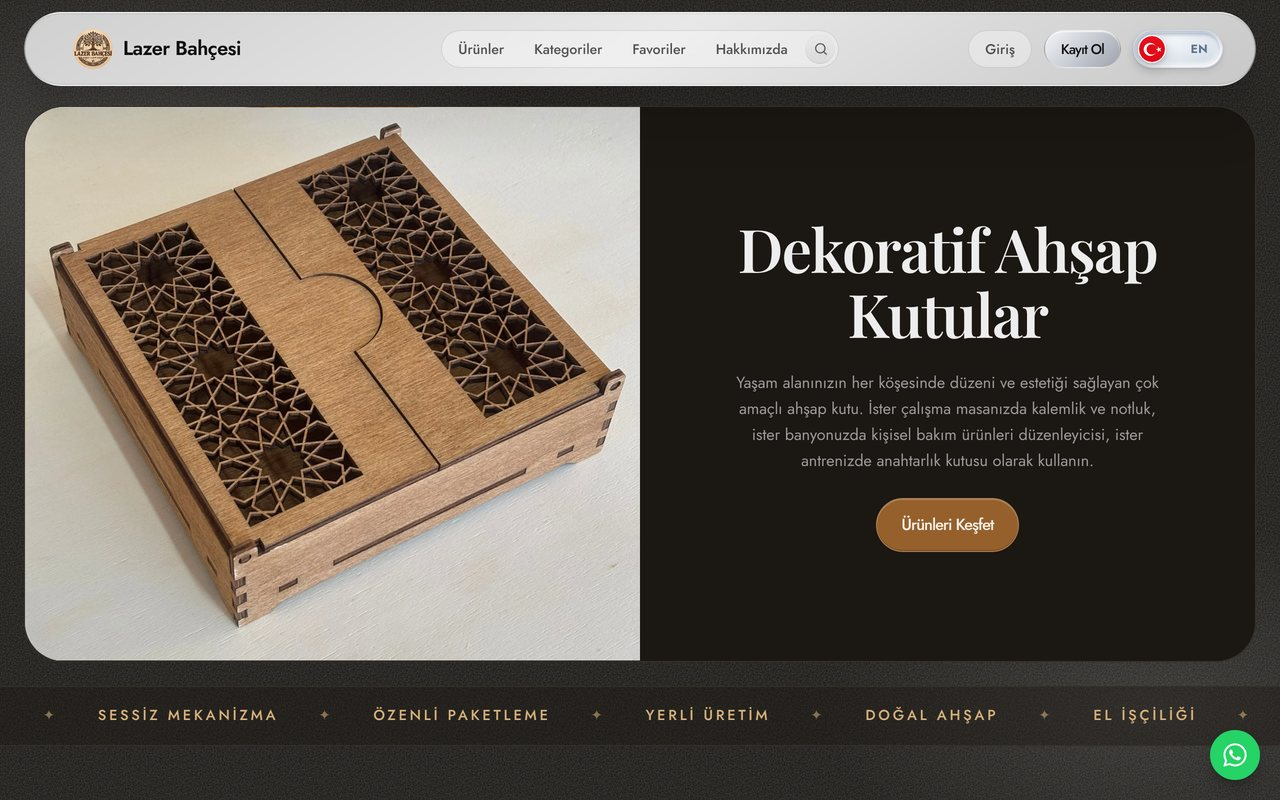
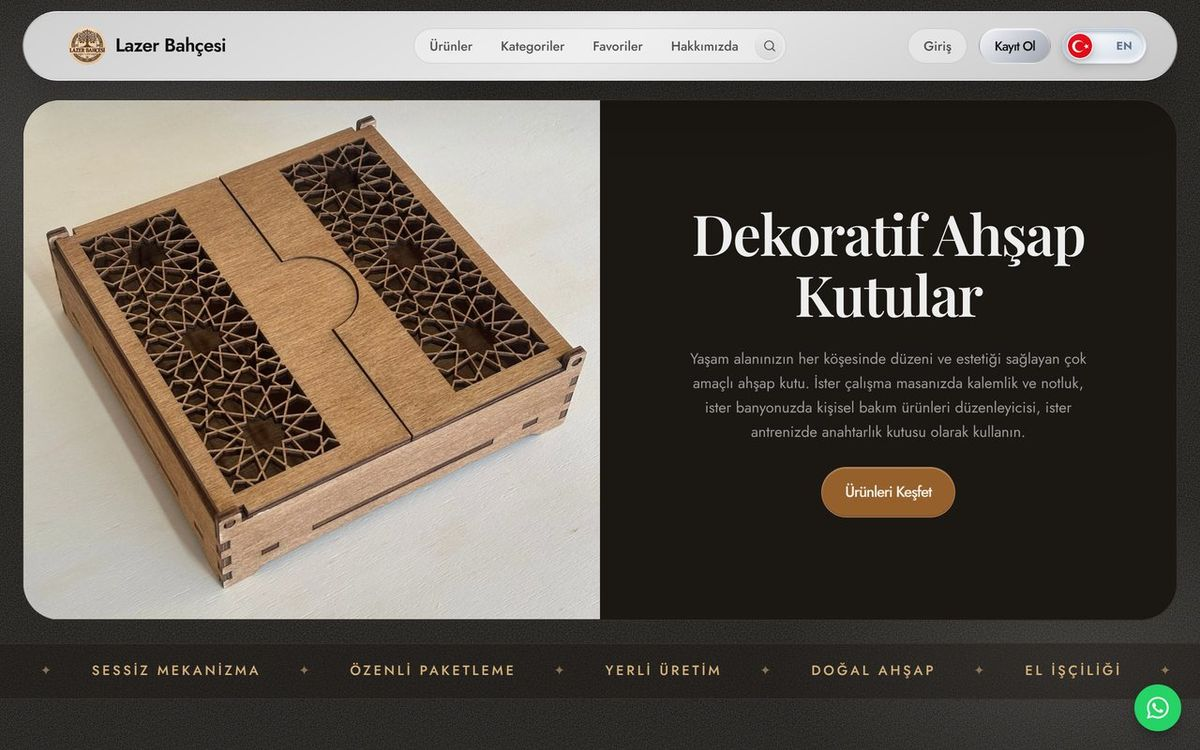
Animasyonlar daha hızlı, içerik daha erken beliriyor; görseller sıkıştırıldı
Claude-Session: https://claude.ai/code/session_015cD98G2LMLwpiJcFaBPEqb

diff --git a/css/style.css b/css/style.css
@@ -315,7 +315,7 @@ body::before {
 }
 .tube__theme:hover { color: #fafafa; transform: scale(1.06); }
 .tube__theme:focus-visible { outline: 2px solid #fafafa; outline-offset: 2px; }
-.tube__theme svg { transition: transform .5s cubic-bezier(.2, .7, .2, 1); }
+.tube__theme svg { transition: transform .35s cubic-bezier(.2, .7, .2, 1); }
 .tube__theme:hover svg { transform: rotate(20deg); }
 
 @media (max-width: 767px) {
@@ -852,7 +852,7 @@ body::before {
   background: var(--surface);
   border: 1px solid var(--line);
   border-radius: var(--card-r);
-  transition: transform .5s cubic-bezier(.2, .7, .2, 1), border-color .3s;
+  transition: transform .35s cubic-bezier(.2, .7, .2, 1), border-color .25s;
 }
 .project:hover { transform: translateY(-4px); }
 
@@ -1171,7 +1171,7 @@ body::before {
   background:
     radial-gradient(110% 55% at 0% 0%, color-mix(in srgb, var(--stage-color) 13%, transparent), transparent 62%),
     var(--surface);
-  transition: transform .5s cubic-bezier(.2, .7, .2, 1);
+  transition: transform .35s cubic-bezier(.2, .7, .2, 1);
 }
 .stage:hover { transform: translateY(-4px); }
 .stage--rooted { --stage-color: var(--laser-pink); }
@@ -1596,31 +1596,31 @@ body::before {
   .js .hero__actions,
   .js .hero__soil { opacity: 0; }
 
-  .js.is-ready .status { animation: rise .8s cubic-bezier(.2, .7, .2, 1) both; }
+  .js.is-ready .status { animation: rise .48s cubic-bezier(.2, .7, .2, 1) both; }
   .js.is-ready .hero__name > span {
-    animation: unveil 1s cubic-bezier(.2, .7, .1, 1) both;
-    animation-delay: calc(.12s + var(--i, 0) * .12s);
+    animation: unveil .6s cubic-bezier(.2, .7, .1, 1) both;
+    animation-delay: calc(.07s + var(--i, 0) * .07s);
   }
   .js.is-ready .hero__name > .hero__surname {
     animation:
-      unveil 1s cubic-bezier(.2, .7, .1, 1) calc(.12s + var(--i, 0) * .12s) both,
+      unveil .6s cubic-bezier(.2, .7, .1, 1) calc(.07s + var(--i, 0) * .07s) both,
       laser-scan 9s ease-in-out 1.4s infinite;
   }
-  .js.is-ready .hero__lede { animation: rise .9s cubic-bezier(.2, .7, .2, 1) .55s both; }
-  .js.is-ready .hero__actions { animation: rise .9s cubic-bezier(.2, .7, .2, 1) .7s both; }
-  .js.is-ready .hero__soil { animation: fade 1.2s ease .9s both; }
+  .js.is-ready .hero__lede { animation: rise .54s cubic-bezier(.2, .7, .2, 1) .33s both; }
+  .js.is-ready .hero__actions { animation: rise .54s cubic-bezier(.2, .7, .2, 1) .42s both; }
+  .js.is-ready .hero__soil { animation: fade .72s ease .54s both; }
 
   .js .spot__line,
   .js .spot__lede,
   .js .spot__cta,
   .js .spot__band { opacity: 0; }
   .js.is-ready .spot__line {
-    animation: blur-rise 1.1s cubic-bezier(.2, .7, .1, 1) both;
-    animation-delay: calc(.1s + var(--i, 0) * .16s);
+    animation: blur-rise .66s cubic-bezier(.2, .7, .1, 1) both;
+    animation-delay: calc(.06s + var(--i, 0) * .1s);
   }
-  .js.is-ready .spot__lede { animation: rise .9s cubic-bezier(.2, .7, .2, 1) .45s both; }
-  .js.is-ready .spot__cta { animation: rise .9s cubic-bezier(.2, .7, .2, 1) .6s both; }
-  .js.is-ready .spot__band { animation: fade 1.4s ease .85s both; }
+  .js.is-ready .spot__lede { animation: rise .54s cubic-bezier(.2, .7, .2, 1) .27s both; }
+  .js.is-ready .spot__cta { animation: rise .54s cubic-bezier(.2, .7, .2, 1) .36s both; }
+  .js.is-ready .spot__band { animation: fade .84s ease .51s both; }
 
   /* Soyadındaki içi boş harflerden periyodik geçen lazer ışığı */
   .hero__surname {
@@ -1646,7 +1646,7 @@ body::before {
     pointer-events: none;
     background: radial-gradient(380px circle at var(--mx, 50%) var(--my, 50%), rgba(255, 79, 154, .10), rgba(59, 240, 216, .04) 40%, transparent 70%);
     opacity: 0;
-    transition: opacity .5s;
+    transition: opacity .3s;
   }
   .hero__window.is-pointer::after { opacity: 1; }
 
@@ -1659,7 +1659,7 @@ body::before {
     pointer-events: none;
     background: radial-gradient(420px circle at var(--mx, 50%) var(--my, 50%), rgba(255, 255, 255, .06), transparent 70%);
     opacity: 0;
-    transition: opacity .5s;
+    transition: opacity .3s;
   }
   :root[data-theme="light"] .cursor-glow {
     background: radial-gradient(420px circle at var(--mx, 50%) var(--my, 50%), rgba(124, 92, 255, .12), transparent 70%);
@@ -1669,29 +1669,29 @@ body::before {
   /* Kaydırınca beliren öğeler */
   .reveal-on [data-reveal] { opacity: 0; }
   .reveal-on [data-reveal].is-visible {
-    animation: rise .9s cubic-bezier(.2, .7, .2, 1) both;
-    animation-delay: calc(var(--i, 0) * 120ms);
+    animation: rise .54s cubic-bezier(.2, .7, .2, 1) both;
+    animation-delay: calc(var(--i, 0) * 72ms);
   }
 
   /* Projeler: görsel perde gibi açılır, yazı ardından gelir */
   .reveal-on [data-reveal-project] .project__media,
   .reveal-on [data-reveal-project] .project__body { opacity: 0; }
   .reveal-on [data-reveal-project].is-visible .project__media {
-    animation: wipe-up 1.1s cubic-bezier(.7, 0, .2, 1) calc(var(--i, 0) * 140ms) both;
+    animation: wipe-up .66s cubic-bezier(.7, 0, .2, 1) calc(var(--i, 0) * 84ms) both;
   }
   .reveal-on [data-reveal-project].is-visible .project__body {
-    animation: rise .9s cubic-bezier(.2, .7, .2, 1) calc(var(--i, 0) * 140ms + .35s) both;
+    animation: rise .54s cubic-bezier(.2, .7, .2, 1) calc(var(--i, 0) * 84ms + .21s) both;
   }
 
   /* Yetenekler: bitki çizimleri kendini çizer, tomurcuklar açılır */
   .reveal-on .stage__icon path { stroke-dasharray: 1; stroke-dashoffset: 1; }
   .reveal-on .stage__icon circle { transform: scale(0); transform-box: fill-box; transform-origin: center; }
   .reveal-on .stage.is-visible .stage__icon path {
-    transition: stroke-dashoffset 1.3s cubic-bezier(.6, 0, .2, 1) calc(var(--i, 0) * 150ms + .25s);
+    transition: stroke-dashoffset .78s cubic-bezier(.6, 0, .2, 1) calc(var(--i, 0) * 90ms + .15s);
     stroke-dashoffset: 0;
   }
   .reveal-on .stage.is-visible .stage__icon circle {
-    transition: transform .5s cubic-bezier(.3, 1.6, .5, 1) calc(var(--i, 0) * 150ms + 1.15s);
+    transition: transform .3s cubic-bezier(.3, 1.6, .5, 1) calc(var(--i, 0) * 90ms + .69s);
     transform: scale(1);
   }
   .reveal-on .stage .skill-list li,
@@ -1701,12 +1701,12 @@ body::before {
   .reveal-on .stage.is-visible .stage__meter,
   .reveal-on .stage.is-visible h3,
   .reveal-on .stage.is-visible .stage__desc {
-    animation: rise-sm .7s cubic-bezier(.2, .7, .2, 1) both;
-    animation-delay: calc(var(--i, 0) * 150ms + .15s);
+    animation: rise-sm .42s cubic-bezier(.2, .7, .2, 1) both;
+    animation-delay: calc(var(--i, 0) * 90ms + .09s);
   }
   .reveal-on .stage.is-visible .skill-list li {
-    animation: rise-sm .6s cubic-bezier(.2, .7, .2, 1) both;
-    animation-delay: calc(var(--i, 0) * 150ms + .45s + var(--j, 0) * 70ms);
+    animation: rise-sm .36s cubic-bezier(.2, .7, .2, 1) both;
+    animation-delay: calc(var(--i, 0) * 90ms + .27s + var(--j, 0) * 42ms);
   }
 }
 
@@ -2139,7 +2139,7 @@ body::before {
   border: 1px solid var(--line);
   border-radius: 22px;
   background: var(--surface);
-  transition: transform .5s cubic-bezier(.2, .7, .2, 1), border-color .3s, box-shadow .3s;
+  transition: transform .35s cubic-bezier(.2, .7, .2, 1), border-color .25s, box-shadow .25s;
 }
 .service:hover, .plan:hover { transform: translateY(-4px); }
 .service h3, .plan h3 {

diff --git a/js/main.js b/js/main.js
@@ -291,7 +291,7 @@ function setupIntro() {
   const root = document.documentElement;
   const ready = () => root.classList.add('is-ready');
   const fonts = document.fonts ? document.fonts.ready : Promise.resolve();
-  Promise.race([fonts, new Promise((r) => setTimeout(r, 1200))]).then(ready);
+  Promise.race([fonts, new Promise((r) => setTimeout(r, 600))]).then(ready);
 }
 
 const prefersReducedMotion = () => window.matchMedia('(prefers-reduced-motion: reduce)').matches;
@@ -308,7 +308,7 @@ function setupReveal() {
       entry.target.classList.add('is-visible');
       observer.unobserve(entry.target);
     });
-  }, { threshold: 0.15, rootMargin: '0px 0px -8% 0px' });
+  }, { threshold: 0.05, rootMargin: '0px 0px -2% 0px' });
 
   items.forEach((el) => observer.observe(el));
 }
